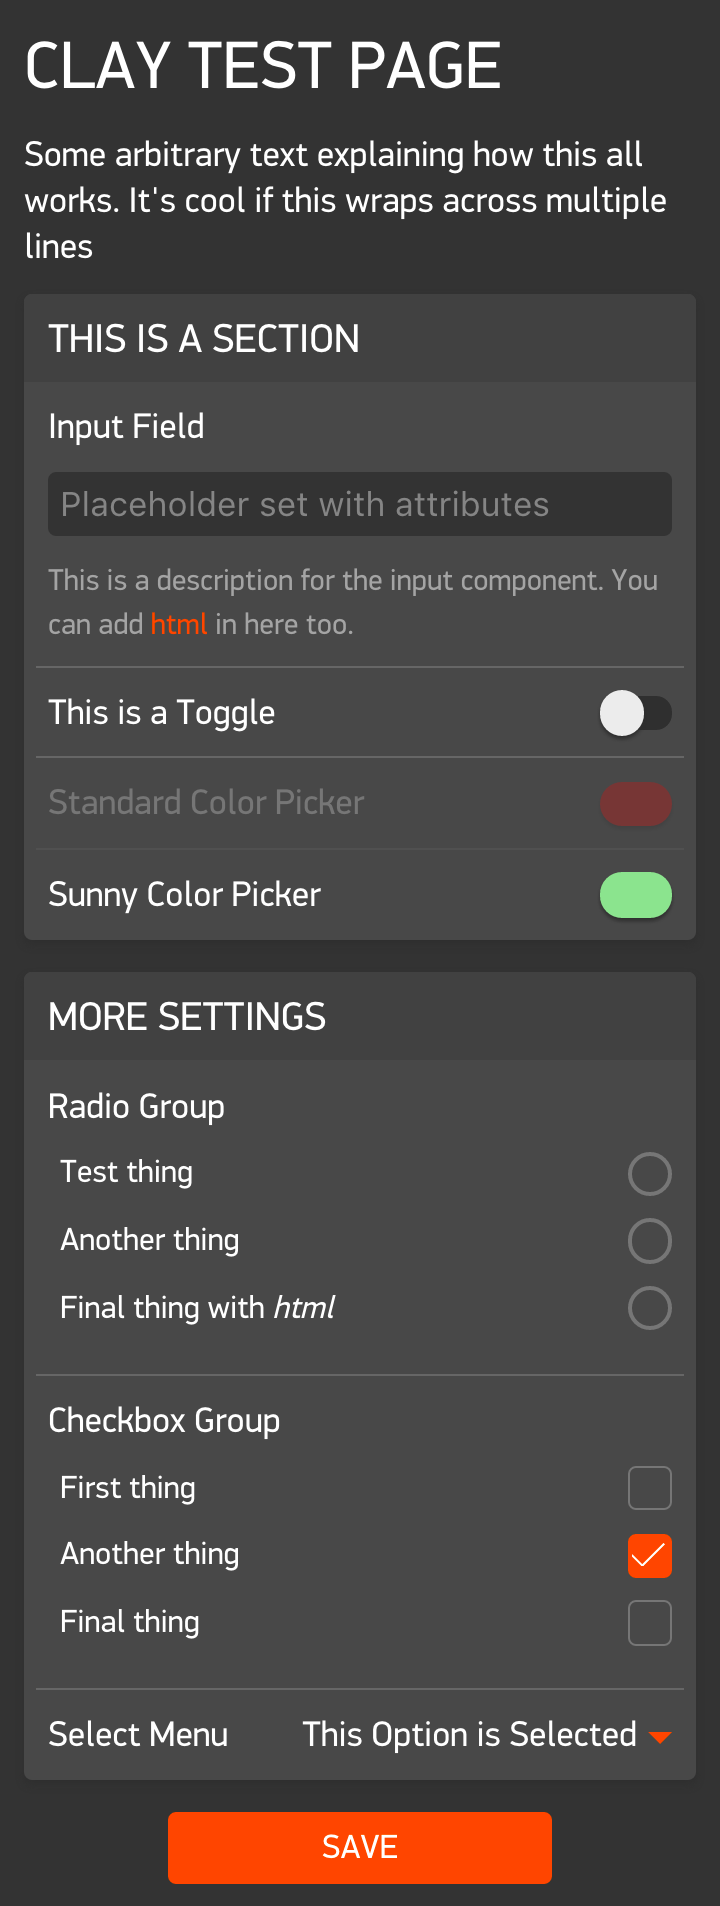
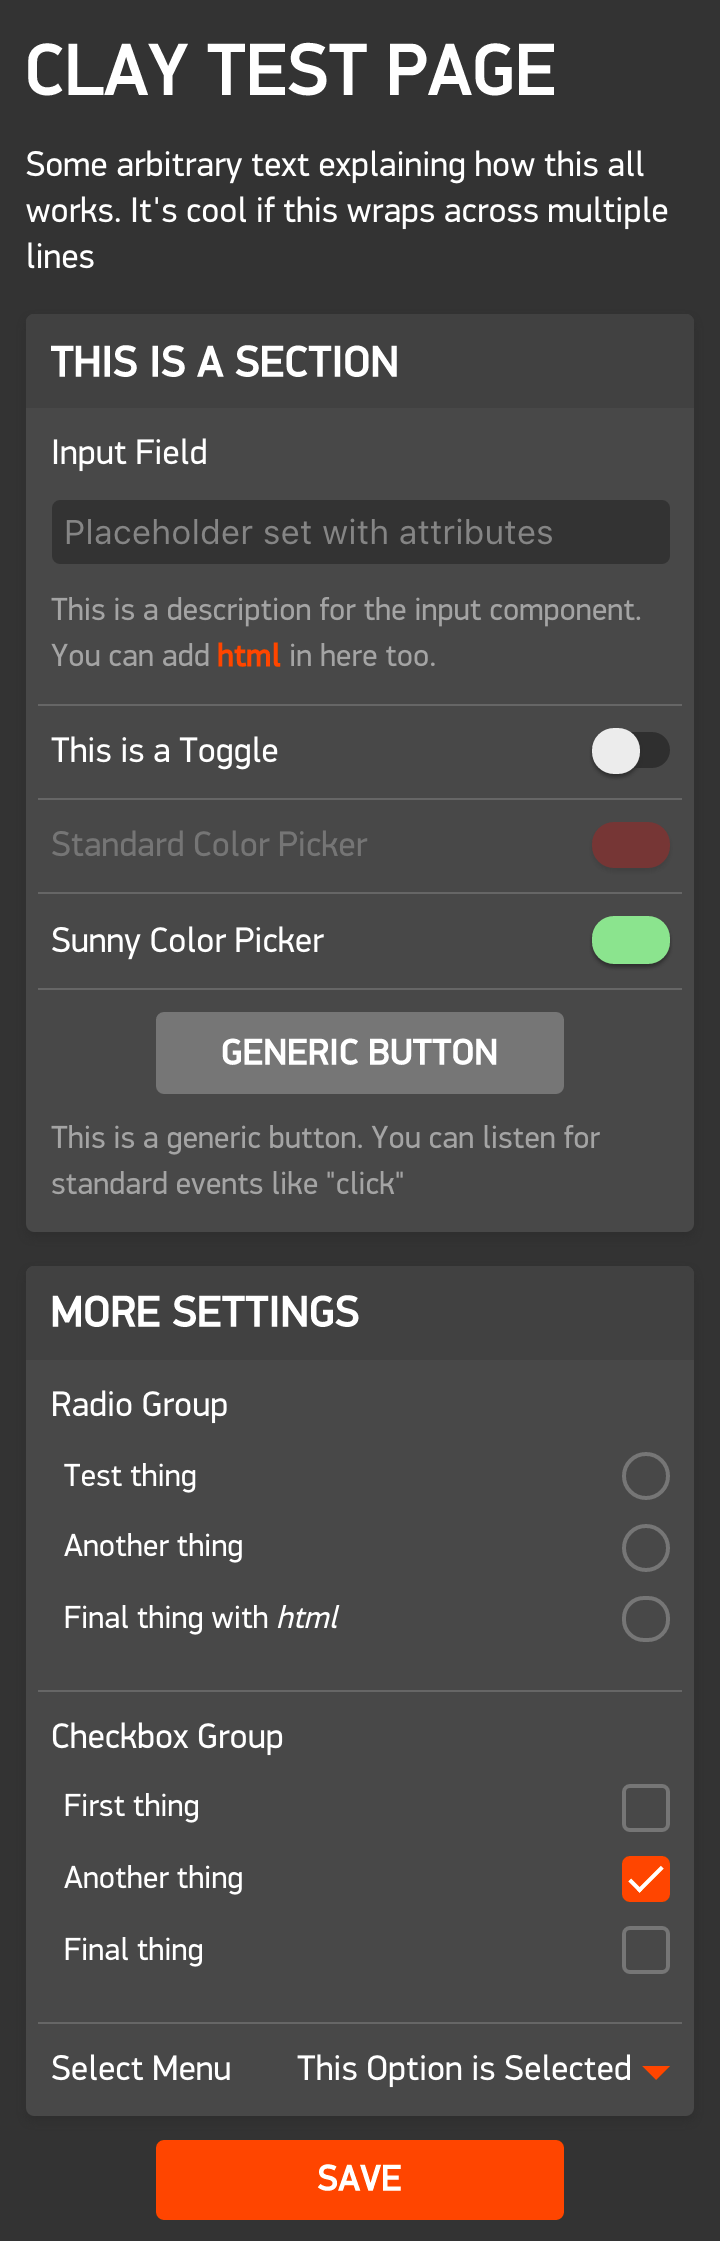
Add generic button component

Changed region(s): [[0.0306, 0.0, 0.9472, 0.9906], [0.8556, 0.6191, 0.9472, 0.7429]]

diff --git a/src/styles/clay/elements/_button.scss b/src/styles/clay/elements/_button.scss
@@ -3,52 +3,30 @@
 button,
 .button {
   @include font-pfdin(medium);
+  @include font-size(1);
   text-transform: uppercase;
-  background-color: $color-gray-4;
+  background-color: $color-gray-7;
   border-radius: $border-radius;
-  font-size: 1rem;
-  line-height: 1;
   border: none;
   display: inline-block;
 
   color: $color-white;
   min-width: 12rem;
   text-align: center;
-  margin: 0 auto;
-  -webkit-tap-highlight-color: rgba(0,0,0,0);
-
+  margin: 0 auto $item-spacing-v;
   padding: $button-padding;
+
+  @include tap-highlight($color-gray-8);
 
   .platform-ios & {
     padding: $button-padding-ios;
   }
 
-  &:disabled {
-    background-color: $color-gray-3;
-    color: $color-gray-8;
-  }
-
-  &:not(:disabled):active {
-    background-color: $color-gray-8;
-  }
-
-  &.orange, &[type="submit"] {
+  &.primary, &[type="submit"] {
     background-color: $color-orange;
 
-    &:disabled {
-      background-color: $color-orange-dark;
-      color: $color-gray-3;
-    }
-
-    &:not(:disabled):active {
-      background-color: $color-red;
-    }
+    @include tap-highlight($color-red);
   }
-
-  &.light-grey {
-    background-color: $color-gray-5;
-  }
-
 }
 
 a.button {

diff --git a/test/spec/lib/manipulators.js b/test/spec/lib/manipulators.js
@@ -139,8 +139,18 @@ describe('manipulators', function() {
 
   describe('html', function() {
     testSetGet('text', 'test123');
+    testSetGet('button', '<span>some HTML</span>');
     testShow('text');
     testHide('text');
+  });
+
+  describe('button', function() {
+    testSetGet('button', 'test123');
+    testSetGet('button', '<span>some HTML</span>');
+    testDisable('button');
+    testEnable('button');
+    testShow('button');
+    testHide('button');
   });
 
   describe('val', function() {

diff --git a/src/scripts/lib/manipulators.js b/src/scripts/lib/manipulators.js
@@ -46,6 +46,19 @@ module.exports = {
     hide: hide,
     show: show
   },
+  button: {
+    get: function() {
+      return this.$manipulatorTarget.get('innerHTML');
+    },
+    set: function(value) {
+      this.$manipulatorTarget.set('innerHTML', value);
+      return this.trigger('change');
+    },
+    disable: disable,
+    enable: enable,
+    hide: hide,
+    show: show
+  },
   val: {
     get: function() {
       return this.$manipulatorTarget.get('value');

diff --git a/dev/config.js b/dev/config.js
@@ -50,6 +50,14 @@ module.exports = [
         "defaultValue": "00FF00",
         "label": "Sunny Color Picker",
         "sunlight": true
+      },
+      {
+        type: 'button',
+        id: 'testButton',
+        primary: false,
+        defaultValue: 'Generic Button',
+        description: 'This is a generic button. ' +
+                     'You can listen for standard events like "click"'
       }
     ]
   },

diff --git a/src/scripts/components/button.js b/src/scripts/components/button.js
@@ -1,0 +1,13 @@
+'use strict';
+
+module.exports = {
+  name: 'button',
+  template: require('../../templates/components/button.tpl'),
+  style: require('../../styles/clay/components/button.scss'),
+  manipulator: 'button',
+  defaults: {
+    primary: false,
+    attributes: {},
+    description: ''
+  }
+};

diff --git a/src/styles/clay/_vars.scss b/src/styles/clay/_vars.scss
@@ -34,7 +34,7 @@ $color-gray-9: #a4a4a4 ;
 $color-gray-10: #ececec;
 $color-gray-11: #f2f2f2;
 
-$button-padding: 0.7rem;
-$button-padding-ios: 0.6rem;
+$button-padding: 0.6rem;
+$button-padding-ios: 0.5rem;
 
 $box-shadow-small-components: $color-gray-1 0 0.1rem 0.1rem;

diff --git a/src/scripts/components/submit.js b/src/scripts/components/submit.js
@@ -4,7 +4,7 @@ module.exports = {
   name: 'submit',
   template: require('../../templates/components/submit.tpl'),
   style: require('../../styles/clay/components/submit.scss'),
-  manipulator: 'html',
+  manipulator: 'button',
   defaults: {
     attributes: {}
   }

diff --git a/src/scripts/components/index.js b/src/scripts/components/index.js
@@ -10,5 +10,6 @@ module.exports = {
   text: require('./text'),
   toggle: require('./toggle'),
   radiogroup: require('./radiogroup'),
-  checkboxgroup: require('./checkboxgroup')
+  checkboxgroup: require('./checkboxgroup'),
+  button: require('./button')
 };

diff --git a/src/styles/clay/components/button.scss b/src/styles/clay/components/button.scss
@@ -1,0 +1,12 @@
+.component-button {
+  text-align: center;
+
+  .section & {
+    padding-bottom: 0;
+  }
+
+  .description {
+    padding-left: 0;
+    padding-right: 0;
+  }
+}

diff --git a/src/styles/clay/_base.scss b/src/styles/clay/_base.scss
@@ -183,6 +183,7 @@ label {
   padding: 0 $item-spacing-h $item-spacing-v ;
   @include font-size(0.9);
   color: $color-gray-9;
+  text-align: left;
 }
 
 .inputs {

diff --git a/README.md b/README.md
@@ -108,7 +108,7 @@ Sections help divide up the page into logical groups of items. It is recommended
 
 ### Heading
 
-**Manipulator:** `html`
+**Manipulator:** [`html`](#html)
 
 Headings can be used in anywhere and can have their size adjusted to suit the context. If you place a heading item at the first position of a section's `items` array then it will automatically be styled as the header for that section. 
 
@@ -138,7 +138,7 @@ Headings can be used in anywhere and can have their size adjusted to suit the co
 
 ### Text
 
-**Manipulator:** `html`
+**Manipulator:** [`html`](#html)
 
 Text is used to provide descriptions of sections or to explain complex parts of your page. Feel free to add any extra HTML you require to the `defaultValue` 
 
@@ -165,7 +165,7 @@ Text is used to provide descriptions of sections or to explain complex parts of 
 
 ### Input
 
-**Manipulator:** `val`
+**Manipulator:** [`val`](#val)
 
 Standard text input field. 
 
@@ -203,7 +203,7 @@ Standard text input field.
 
 #### Toggle
 
-**Manipulator:** `checked`
+**Manipulator:** [`checked`](#checked)
 
 Switch for a single item. 
 
@@ -238,7 +238,7 @@ Switch for a single item.
 
 #### Select
 
-**Manipulator:** `val`
+**Manipulator:** [`val`](#val)
 
 A dropdown menu containing multiple options.
 
@@ -291,7 +291,7 @@ A dropdown menu containing multiple options.
 
 #### Color
 
-**Manipulator:** `color`
+**Manipulator:** [`color`](#color)
 
 A color picker containing the 64 supported colors on Basalt and Chalk.
 
@@ -323,7 +323,7 @@ A color picker containing the 64 supported colors on Basalt and Chalk.
 
 #### RadioGroup
 
-**Manipulator:** `radiogroup`
+**Manipulator:** [`radiogroup`](#radiogroup)
 
 A list of options allowing the user can only choose one option to submit.
 
@@ -368,7 +368,7 @@ A list of options allowing the user can only choose one option to submit.
 
 #### CheckboxGroup
 
-**Manipulator:** `checkboxgroup`
+**Manipulator:** [`checkboxgroup`](#checkboxgroup)
 
 A list of options where a user may choose more than one option to submit.
 
@@ -412,9 +412,37 @@ A list of options where a user may choose more than one option to submit.
 
 ---
 
+### Generic Button
+
+**Manipulator:** [`button`](#button)
+
+The submit button for the page. You **MUST** include this component somewhere in the config page (traditionally at the bottom) or users will not be able to save the form. 
+
+##### Properties
+
+| Property | Type | Description |
+|----------|------|-------------|
+| type | string | Set to `button`. |
+| defaultValue | string | The text displayed on the button. |
+| primary | boolean | If `true` the button will be orange, if `false`, the button will be gray (defaults to `false`)|
+| attributes | object | An object containing HTML attributes to set on the input field. |
+| description | string | Optional sub-text to include below the component |
+
+##### Example
+
+```javascript
+{
+  "type": "button",
+  "primary": true,
+  "defaultValue": "Send"
+}
+```
+
+---
+
 ### Submit
 
-**Manipulator:** `html`
+**Manipulator:** [`button`](#button)
 
 The submit button for the page. You **MUST** include this component somewhere in the config page (traditionally at the bottom) or users will not be able to save the form. 
 
@@ -440,7 +468,6 @@ The submit button for the page. You **MUST** include this component somewhere in
 ### Coming Soon
 
 - Range Slider
-- Generic Button
 - Tabs
 - Footer
 - Dynamic + draggable list
@@ -461,6 +488,17 @@ Many of these methods fire an event when the method is called. You can listen fo
 |--------|---------|-------------| ------------|
 | `.set( [string\|HTML] value)` | `ClayItem` | `change` | Sets the content of this item. |
 | `.get()` | `string` | | Gets the content of this item. |
+| `.hide()` | `ClayItem` | `hide` | Hides the item |
+| `.show()` | `ClayItem` | `show` | Shows the item |
+
+#### button
+
+| Method | Returns | Event Fired | Description | 
+|--------|---------|-------------| ------------|
+| `.set( [string\|HTML] value)` | `ClayItem` | `change` | Sets the content of this item. |
+| `.get()` | `string` | | Gets the content of this item. |
+| `.disable()` |  `ClayItem` | `disabled` | Prevents this item from being clicked by the user. |
+| `.enable()` |  `ClayItem` | `enabled` | Allows this item to be clicked by the user. |
 | `.hide()` | `ClayItem` | `hide` | Hides the item |
 | `.show()` | `ClayItem` | `show` | Shows the item |
 
